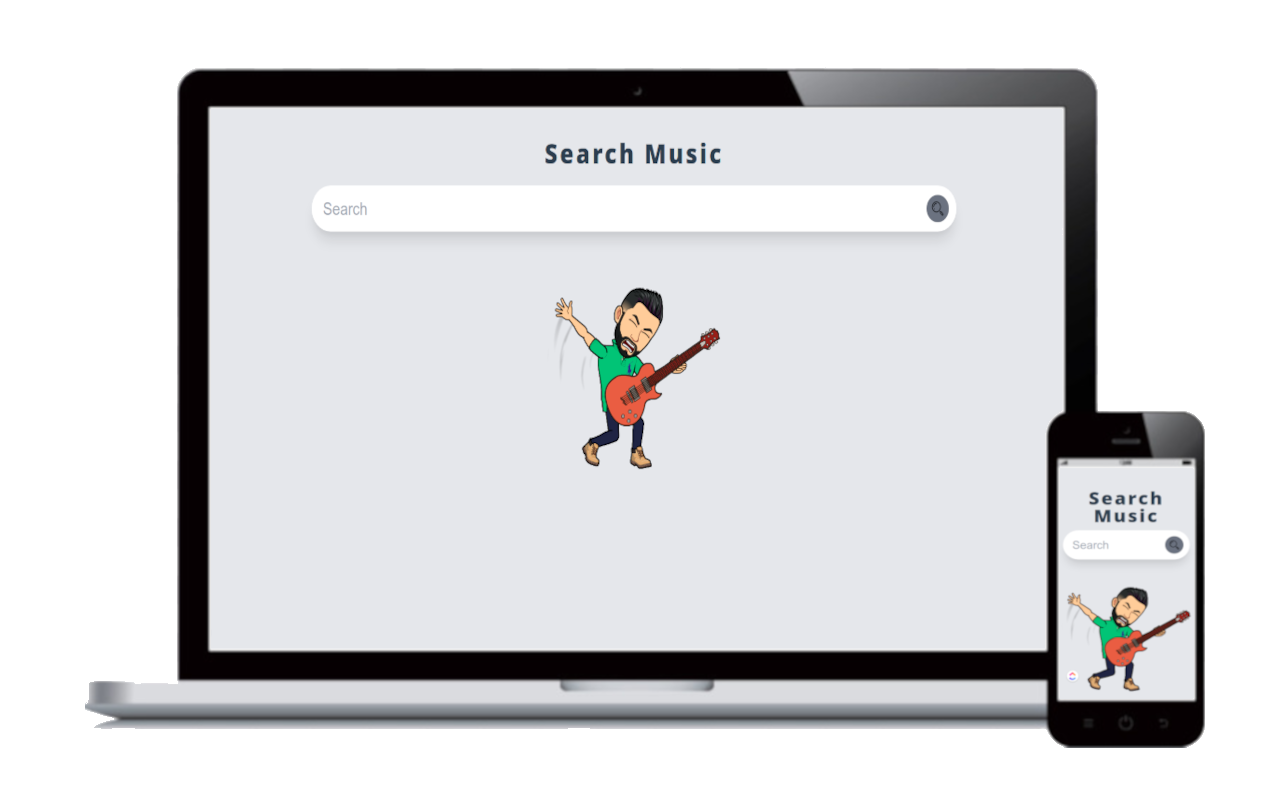
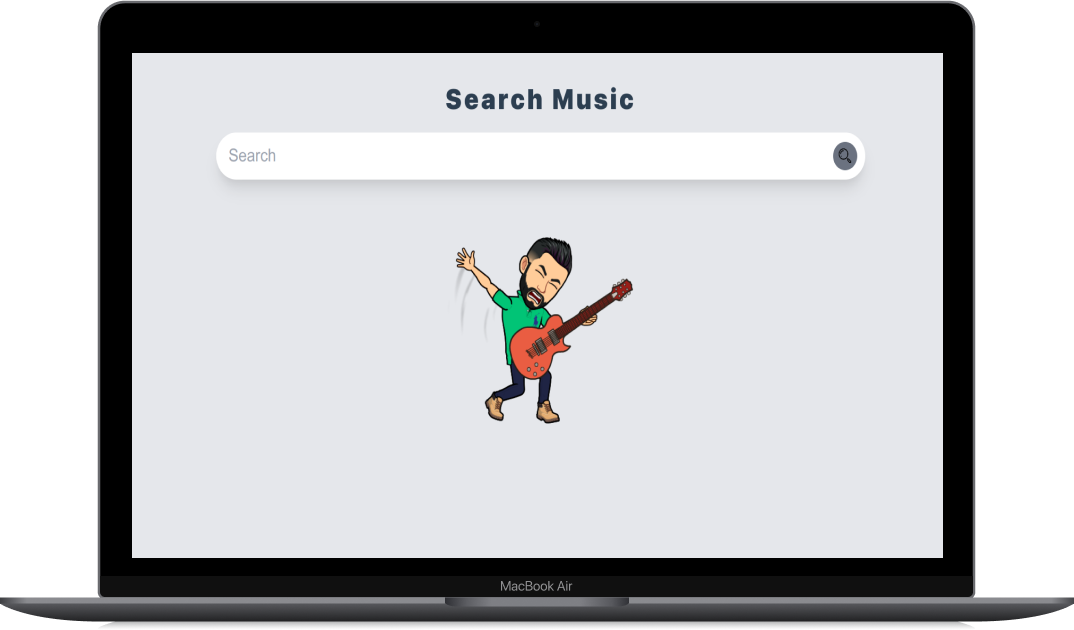
add tests and fixed images

diff --git a/tests/i18n-rss.spec.ts b/tests/i18n-rss.spec.ts
@@ -1,0 +1,78 @@
+import { test, expect } from '@playwright/test'
+
+test('test i18n and rss', async ({ page }) => {
+	await page.goto('http://localhost:3000/')
+
+	expect(await page.locator('h1').first()).toHaveText('Hi, my name is')
+
+	await page.locator('select').nth(1).selectOption('/es/')
+	await expect(page).toHaveURL('http://localhost:3000/es/')
+
+	expect(await page.locator('h1').first()).toHaveText('Hola, mi nombre es')
+
+	await page.locator('select').nth(1).selectOption('/')
+	await expect(page).toHaveURL('http://localhost:3000/')
+
+	expect(await page.locator('#my-self')).toHaveText(
+		'I’m a software engineer, technology and science enthusiast, specialized in building mobile and web applications.'
+	)
+
+	await page.locator('select').nth(1).selectOption('/es/')
+	await expect(page).toHaveURL('http://localhost:3000/es/')
+
+	expect(await page.locator('#my-self')).toHaveText(
+		'Soy ingeniero de software, entusiasta de la ciencia y la tecnología, especializado en construir aplicaciones web y Móviles.'
+	)
+
+	await page.locator('select').nth(1).selectOption('/')
+	await expect(page).toHaveURL('http://localhost:3000/')
+
+	expect(await page.locator('h2:has-text("About me")')).toHaveText('About me')
+
+	await page.locator('select').nth(1).selectOption('/es/')
+	await expect(page).toHaveURL('http://localhost:3000/es/')
+
+	expect(await page.locator('h2:has-text("Sobre mí")')).toHaveText('Sobre mí')
+
+	await page.locator('select').nth(1).selectOption('/')
+	await expect(page).toHaveURL('http://localhost:3000/')
+
+	expect(await page.locator('h2:has-text("Where I\'ve Worked")')).toHaveText("Where I've Worked")
+
+	await page.locator('select').nth(1).selectOption('/es/')
+	await expect(page).toHaveURL('http://localhost:3000/es/')
+
+	expect(await page.locator('h2:has-text("Dónde he trabajado")')).toHaveText('Dónde he trabajado')
+
+	await page.locator('select').nth(1).selectOption('/')
+	await expect(page).toHaveURL('http://localhost:3000/')
+
+	expect(await page.locator('h2:has-text("Other Noteworthy Projects")')).toHaveText(
+		'Other Noteworthy Projects'
+	)
+
+	await page.locator('select').nth(1).selectOption('/es/')
+	await expect(page).toHaveURL('http://localhost:3000/es/')
+
+	expect(await page.locator('h2:has-text("Otros proyectos")')).toHaveText('Otros proyectos')
+
+	await page.locator('select').nth(1).selectOption('/')
+	await expect(page).toHaveURL('http://localhost:3000/')
+
+	expect(await page.locator('h2:has-text("Last Articles")')).toHaveText('Last Articles')
+
+	await page.locator('select').nth(1).selectOption('/es/')
+	await expect(page).toHaveURL('http://localhost:3000/es/')
+
+	expect(await page.locator('h2:has-text("Últimos artículos")')).toHaveText('Últimos artículos')
+
+	await page.locator('select').nth(1).selectOption('/')
+	await expect(page).toHaveURL('http://localhost:3000/')
+
+	expect(await page.locator('h2:has-text("Contact me")')).toHaveText('Contact me')
+
+	await page.locator('select').nth(1).selectOption('/es/')
+	await expect(page).toHaveURL('http://localhost:3000/es/')
+
+	expect(await page.locator('h2:has-text("Contácteme")')).toHaveText('Contácteme')
+})

diff --git a/tests/blog.spec.ts b/tests/blog.spec.ts
@@ -1,0 +1,62 @@
+import { test, expect } from '@playwright/test'
+
+test('test blog section', async ({ page }) => {
+	await page.goto('http://localhost:3000/')
+
+	await page.locator('text=Blog').nth(1).click()
+	await expect(page).toHaveURL('http://localhost:3000/blog')
+
+	await page.locator('[data-test="paginator-next"]').click()
+	await expect(page).toHaveURL('http://localhost:3000/blog/2')
+
+	await page.locator('[data-test="paginator-next"]').click()
+
+	await page
+		.locator(
+			'text=Gridsome is a Vue.js-powered, modern site generator for building the fastest pos >> a'
+		)
+		.click()
+	await expect(page).toHaveURL('http://localhost:3000/blog/introduction-to-gridsome')
+
+	const [page1] = await Promise.all([
+		page.waitForEvent('popup'),
+		page.locator('a:nth-child(7) > .h-7 > path').click()
+	])
+
+	const [page2] = await Promise.all([
+		page.waitForEvent('popup'),
+		page.locator('a:nth-child(6) > .h-7').click()
+	])
+
+	const [page3] = await Promise.all([
+		page.waitForEvent('popup'),
+		page.locator('a:nth-child(5) > .h-7').click()
+	])
+
+	const [page4] = await Promise.all([
+		page.waitForEvent('popup'),
+		page.locator('a:nth-child(4) > .h-7').click()
+	])
+
+	await page4.goto(
+		'https://www.reddit.com/login/?dest=https%3A%2F%2Fwww.reddit.com%2Fsubmit%3Furl%3Dhttp%253A%252F%252Flocalhost%253A3000%252Fblog%252Fintroduction-to-gridsome%26title%3DIntroduction%2520to%2520Gridsome'
+	)
+
+	const [page5] = await Promise.all([
+		page.waitForEvent('popup'),
+		page.locator('a:nth-child(3) > .h-7').click()
+	])
+
+	const [page6] = await Promise.all([
+		page.waitForEvent('popup'),
+		page.locator('a:nth-child(2) > .h-7 > path').click()
+	])
+
+	const [page7] = await Promise.all([
+		page.waitForEvent('popup'),
+		page.locator('.mb-8 > div > a > .h-7').first().click()
+	])
+
+	await page.locator('text=Back to Blog').click()
+	await expect(page).toHaveURL('http://localhost:3000/blog')
+})

diff --git a/tests/side-social-media-links.spec.ts b/tests/side-social-media-links.spec.ts
@@ -1,0 +1,42 @@
+import { test, expect } from '@playwright/test'
+
+test('Test side social media links', async ({ page }) => {
+	await page.goto('http://localhost:3000/')
+
+	const [page1] = await Promise.all([
+		page.waitForEvent('popup'),
+		page.locator('#GitHub svg').click()
+	])
+
+	await page1.goto('https://github.com/yacosta738')
+
+	const [page2] = await Promise.all([
+		page.waitForEvent('popup'),
+		page.locator('#Instagram svg').click()
+	])
+	await page2.goto('https://www.instagram.com/yacosta738/')
+
+	const [page3] = await Promise.all([
+		page.waitForEvent('popup'),
+		page.locator('#Twitter svg').click()
+	])
+
+	await page3.goto('https://twitter.com/yacosta738')
+
+	const [page4] = await Promise.all([
+		page.waitForEvent('popup'),
+		page.locator('#Linkedin svg').click()
+	])
+
+	await page4.goto('https://www.linkedin.com/in/yacosta738/')
+
+	const [page5] = await Promise.all([
+		page.waitForEvent('popup'),
+		page.locator('#Codepen svg').click()
+	])
+
+	await page5.goto('https://codepen.io/yacosta738')
+
+	await page.locator('text=yunielacosta738@gmail.com').click()
+	await expect(page).toHaveURL('http://localhost:3000/')
+})

diff --git a/tests/contact.spec.ts b/tests/contact.spec.ts
@@ -1,0 +1,26 @@
+import { test, expect } from '@playwright/test'
+
+test('test contact section', async ({ page }) => {
+	await page.goto('http://localhost:3000/')
+
+	await page.locator('[placeholder="John Doe"]').click()
+
+	await page.locator('[placeholder="John Doe"]').fill('Yuniel Acosta')
+
+	await page.locator('[placeholder="jhondoe\\@gmail\\.com"]').click()
+
+	await page.locator('[placeholder="jhondoe\\@gmail\\.com"]').fill('yunielacosta738@gmail.com')
+
+	await page.locator('[placeholder="John it\\\'s time to start your new project"]').click()
+
+	await page
+		.locator('[placeholder="John it\\\'s time to start your new project"]')
+		.fill('I want contact you')
+
+	await page.locator('textarea[name="message"]').click()
+
+	await page.locator('textarea[name="message"]').fill('I think that you and me could work together')
+
+	await page.locator('text=Send Message').click()
+	await expect(page).toHaveURL('https://formspree.io/f/xknperzd')
+})

diff --git a/src/components/organisms/jobs/Jobs.vue b/src/components/organisms/jobs/Jobs.vue
@@ -1,5 +1,6 @@
 <script setup lang="ts">
 import { computed, onMounted, ref } from 'vue'
+import {t} from 'i18next'
 import { breakpointsTailwind, useBreakpoints } from '@vueuse/core'
 import { Job } from '../../../models/Job'
 import { inlineLinks } from '../../../util/utilities'
@@ -43,7 +44,7 @@ onMounted(() => {
 
 <template>
 	<section id="jobs" class="styled-jobs-section">
-		<h2 class="numbered-heading">Where I've Worked</h2>
+		<h2 class="numbered-heading">{{t('where-worked')}}</h2>
 		<div class="inner">
 			<ul class="styled-tab-list" role="tablist" aria-label="Job tabs">
 				<li v-for="(job, i) in jobs" :key="job.id">

diff --git a/tests/curriculum.spec.ts b/tests/curriculum.spec.ts
@@ -1,0 +1,11 @@
+import { test } from '@playwright/test'
+
+test('test resume button 📓', async ({ page }) => {
+	await page.goto('http://localhost:3000/')
+
+	const [page1] = await Promise.all([
+		page.waitForEvent('popup'),
+		page.locator('text=Resume').nth(1).click()
+	])
+  await page1.goto('http://localhost:3000/files/yuniel_acosta_cv.pdf')
+})

diff --git a/tests/home-page.spec.ts b/tests/home-page.spec.ts
@@ -1,6 +1,6 @@
 import { test, expect } from '@playwright/test'
 
-test('test', async ({ page }) => {
+test('test home page basic elements', async ({ page }) => {
 	// Go to http://localhost:3000/
 	await page.goto('http://localhost:3000/')
 
